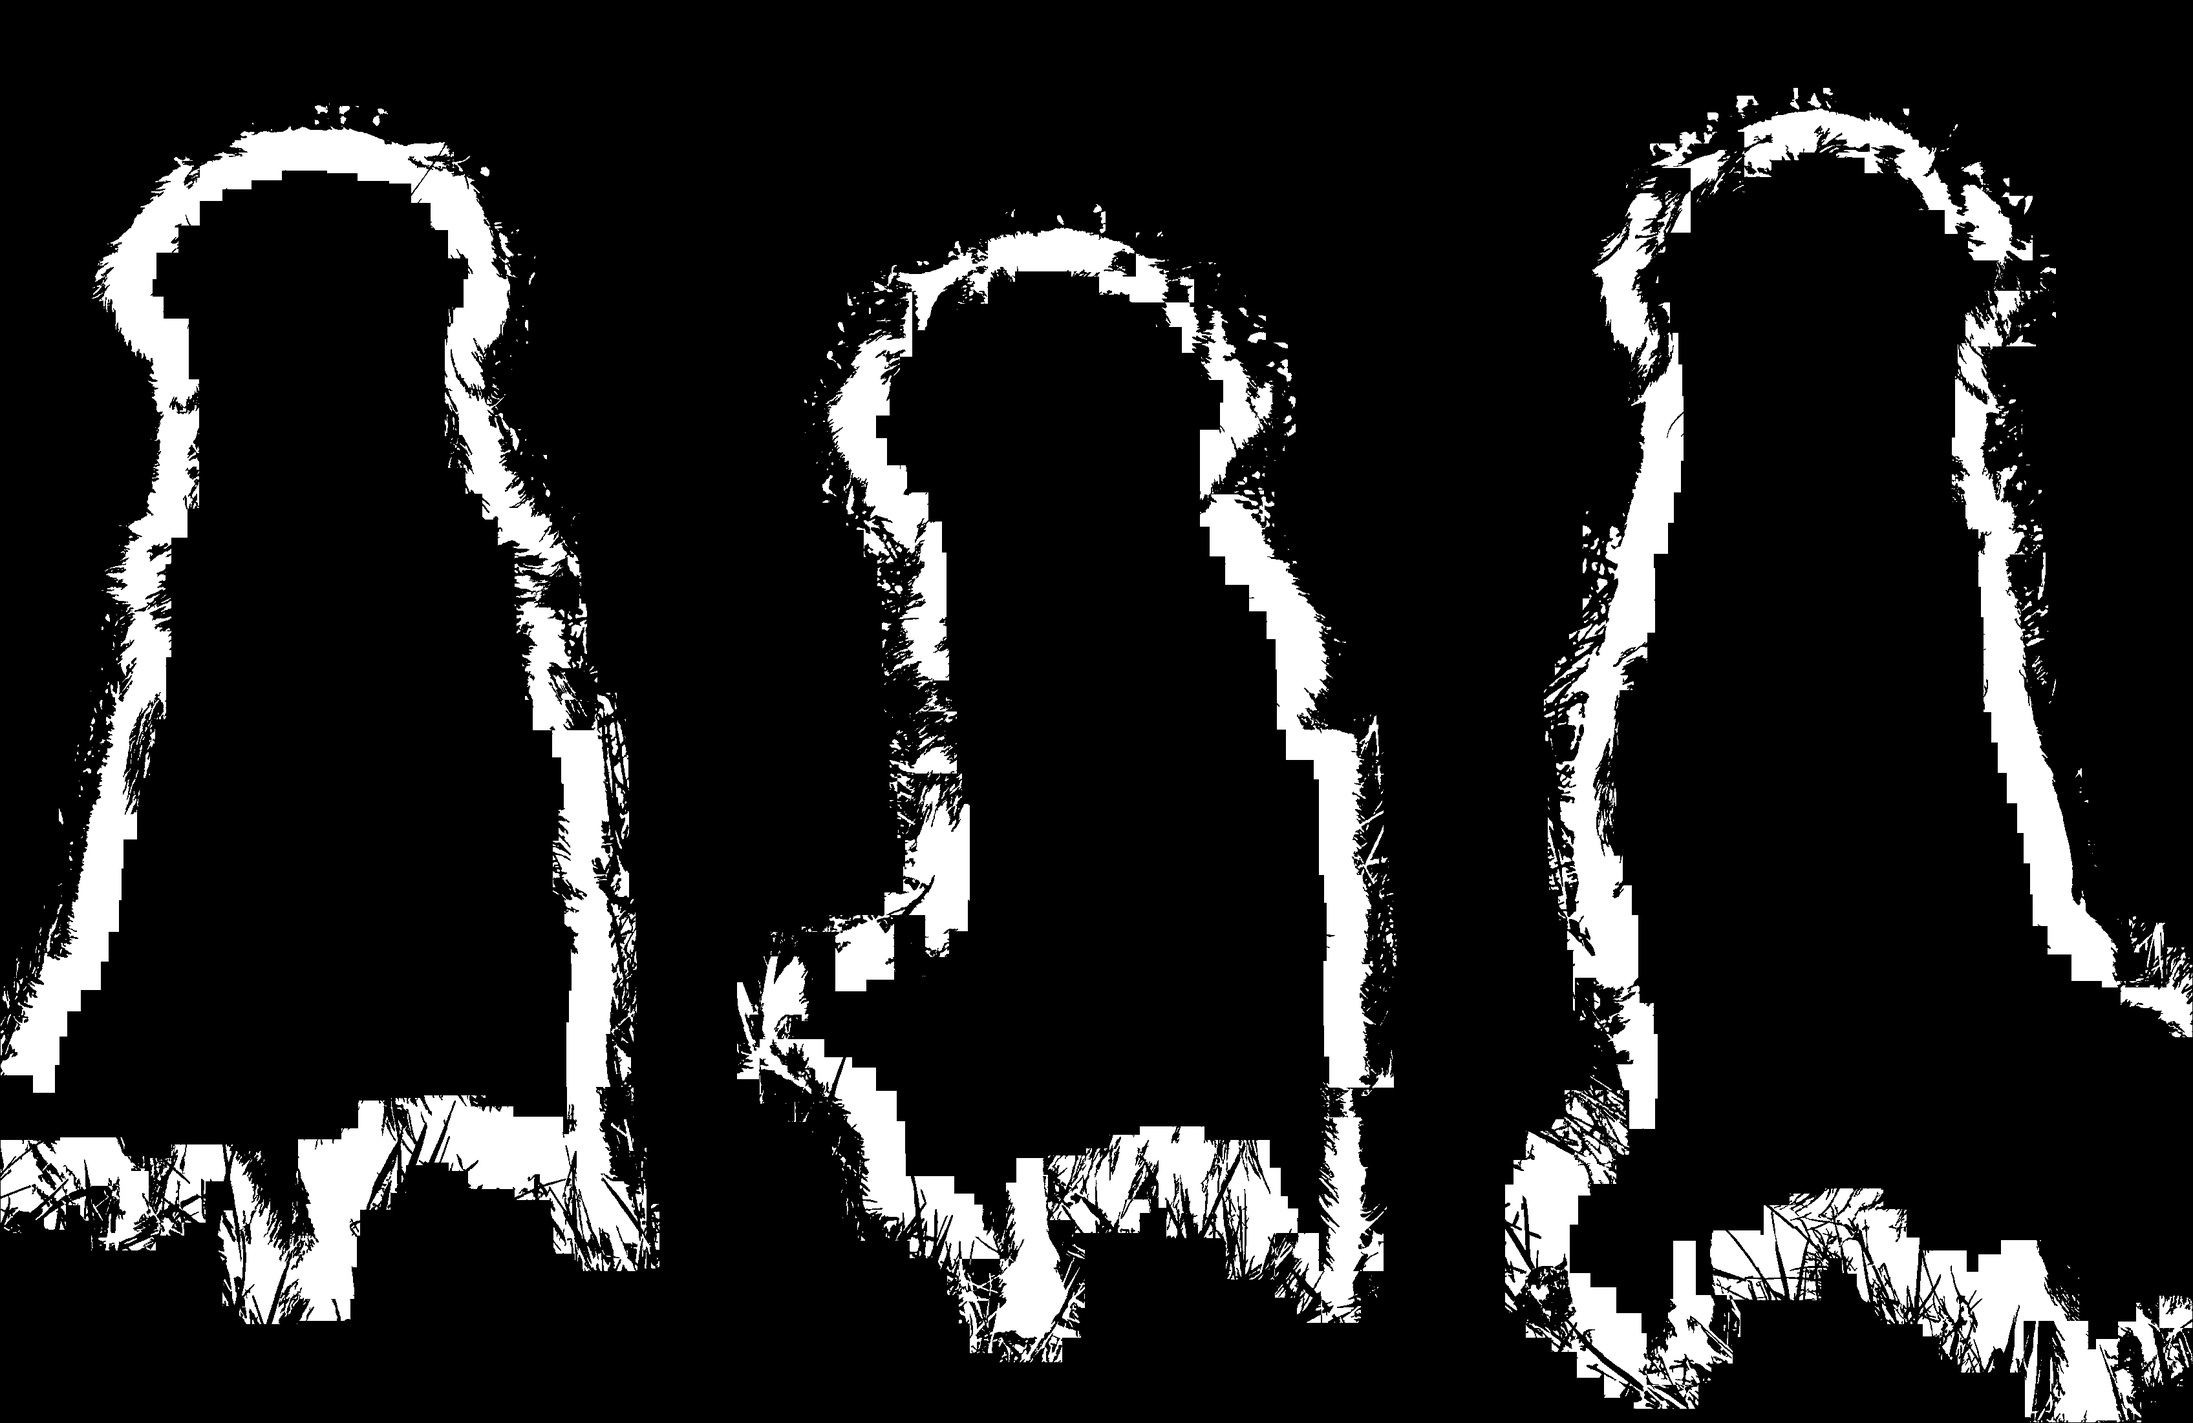
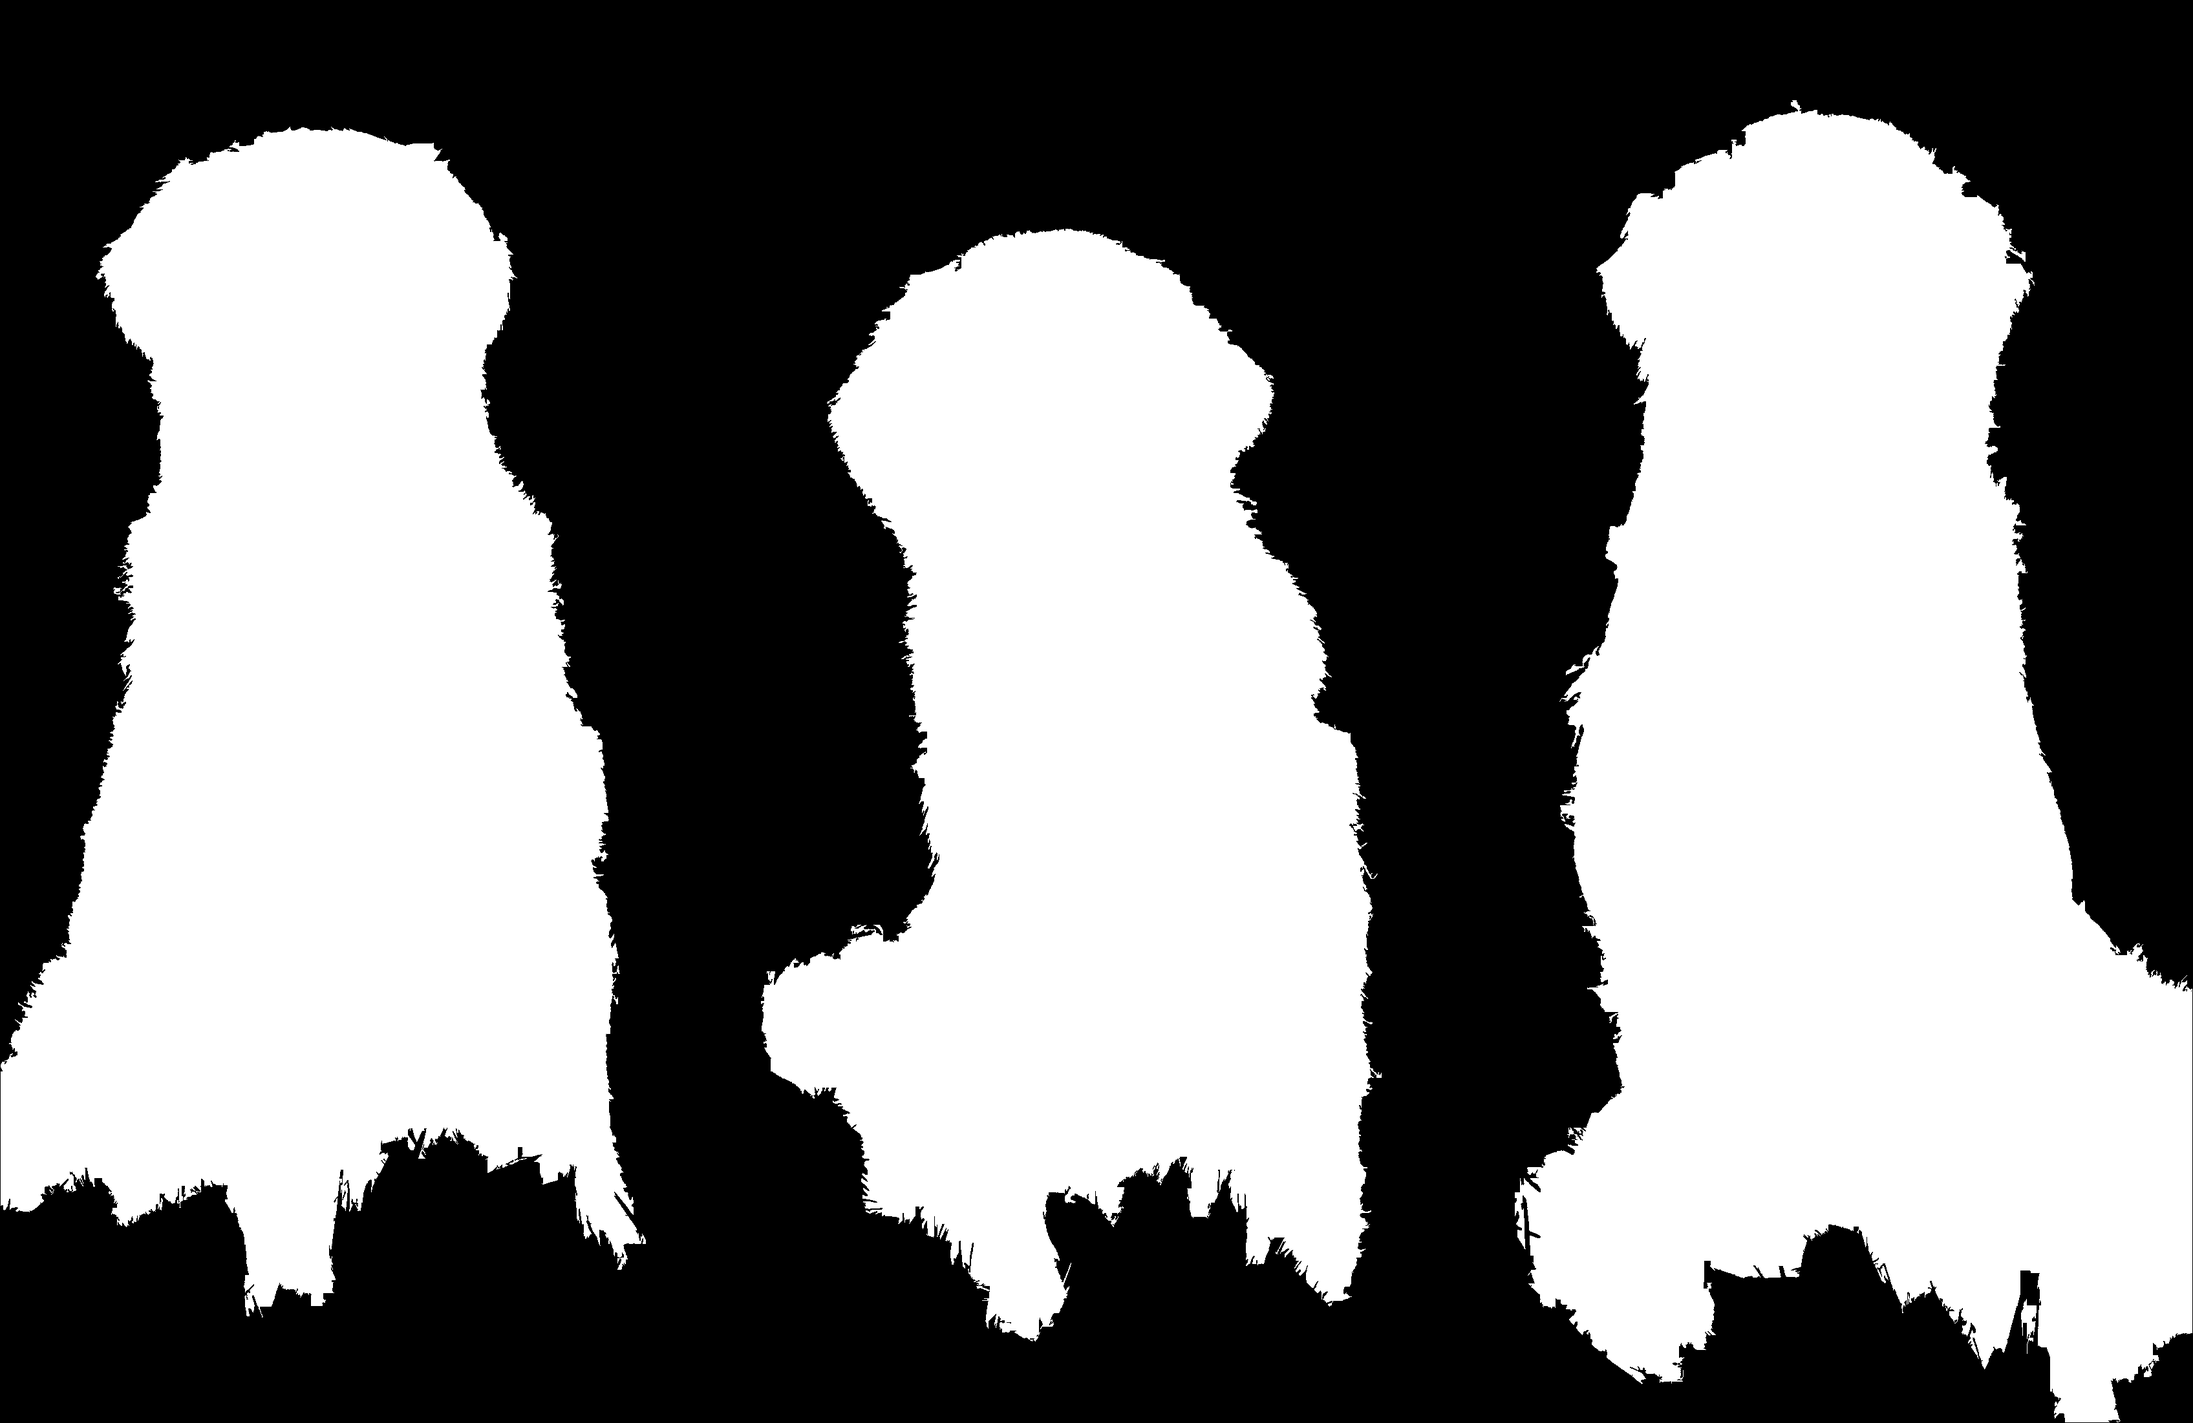
Finish comments

diff --git a/run.py b/run.py
@@ -1,3 +1,5 @@
+# Shihan Ai
+
 import numpy as np
 import cv2 as cv
 import argparse, os, sys
@@ -6,23 +8,38 @@ from util import *
 
 class GraphCut:
     def __init__(self, source, foregroundSeed, backgroundSeed):
+        # Keep a copy of source
         self.source = source.copy()
+
+        # This is where the output is stored
         self.cutOut = source.copy()
+
+        # Store the user marked foreground and background seeds
         self.foregroundSeed = foregroundSeed
         self.backgroundSeed = backgroundSeed
 
+        # Used to create an image pyramid
         self.iDown = [self.source]
         self.fDown = [self.foregroundSeed]
         self.bDown = [self.backgroundSeed]
 
+        # Kernel used for convolution
         self.kernel = np.ones((5,5), np.uint8)
 
+        # Keep a list of contour points for items being cut out
         self.cuts = None
+
+        # Number of objects being cut out
         self.numCuts = None
+
+        # Refined foreground and background
         self.foreground = None
         self.background = None
+
+        # Store the results of each thread
         self.results = [None, None, None, None]
 
+        # Images stored for debugging purposes
         self._combined = None
         self._initialMask = None
         self._finalMask = np.zeros(self.source.shape[:2], dtype=np.uint8)
@@ -32,22 +49,33 @@ class GraphCut:
         self.minImageSize = 500000
         self.timesDownsampled = 0
 
-        self.erodeIterations = 8
-        self.dilateIterations = 8
-        self.patchRadius = 50
+        # Hyper parameters to play with
+        self.erodeIterations = 5
+        self.dilateIterations = 5
+        self.patchRadius = 25
+        self.colorWeight = 0.5
+        self.locationWeight = 0.5
+        self.contourSizeThreshold = 500
 
     def run(self):
+        # We down sample the large image to a much more managable size
+        # and we perform Grabcut on the downsampled image to get a rough
+        # esimate of the cutout mask. Using this estimate, we can obtain a more
+        # refined foreground and background seed.
         self.downSample()
         self.cuts, self.foreground, self.background, self._combined = self.getBoundaries()
+
+        # Using the refined foreground and background seeds, we take the estimated
+        # cutout mask and refine the contour by examining patches that lie on the contour
+        # and cut out pixels with respect to the refined foreground and background seeds
         self.refineBoundary(self.cuts)
+
+        # Cut out the original image using the refined mask
         self.cutOut[self._finalMask==0] = 0
         return self.cutOut, self._finalMask, self._combined, self._initialMask
 
-
+    # Constructs an image pyramid by scaling down the image and foreground and background seeds
     def downSample(self):
-        '''
-        Constructs the image pyramid
-        '''
         imageSize = self.numRows * self.numCols
         while imageSize > self.minImageSize:
             image = cv.pyrDown(self.iDown[-1])
@@ -62,21 +90,27 @@ class GraphCut:
             imageSize = image.shape[0] * image.shape[1]
             self.timesDownsampled += 1
 
+    # Get a rough estimate of the cutout mask
     def getBoundaries(self):
-        downSizedImage = self.iDown[-1]
-        downSizedForeground = self.fDown[-1]
-        downSizedBackground = self.bDown[-1]
 
-        mask = self.cut(downSizedImage, downSizedForeground, downSizedBackground)
+        # Perform the cut
+        mask = self.cut(self.iDown[-1], self.fDown[-1], self.bDown[-1])
 
+        # Upsample the mask back to the size of the original image
         for i in xrange(self.timesDownsampled):
             if mask.shape[0] != self.iDown[-1 * (i + 1)].shape[0]:
                 mask = mask[:-1,:]
             if mask.shape[1] != self.iDown[-1 * (i + 1)].shape[1]:
                 mask = mask[:,:-1]
             mask = cv.pyrUp(mask)
+
+        # Store a copy of the upsampled unrefined mask
         self._initialMask = mask.copy()
 
+        # We know pixels inside the contour of the unrefined mask
+        # should be a part of the foreground and that pixels outside of the
+        # contour should be a part of the background so we can generate a better
+        # foreground and background seed by eroded and dilating the unrefined mask
         mask = cv.erode(mask, self.kernel, iterations=self.erodeIterations)
         erodedMask = cv.erode(mask, self.kernel, iterations=self.erodeIterations)
         dilatedMask = cv.dilate(mask, self.kernel, iterations=self.dilateIterations)
@@ -85,6 +119,7 @@ class GraphCut:
         erodedBoundary = cv.findContours(erodedMask, cv.RETR_EXTERNAL, cv.CHAIN_APPROX_NONE)
         dilatedBoundary = cv.findContours(dilatedMask, cv.RETR_EXTERNAL, cv.CHAIN_APPROX_NONE)
 
+        # Create image representations of the new foreground and background seeds
         combined = np.ones(self.source.shape, dtype=np.uint8) * 255
         foreground = np.zeros(self.source.shape[:2], dtype=np.uint8)
         background = np.zeros(self.source.shape[:2], dtype=np.uint8)
@@ -96,14 +131,17 @@ class GraphCut:
             erodedPoints = erodedBoundary[0][-i]
             dilatedPoints = dilatedBoundary[0][-i]
 
-            for p in points: # Red
+            # Red
+            for p in points:
                 combined[p[0][1], p[0][0]] = [0, 0, 255]
 
-            for p in erodedPoints: # Green
+            # Green
+            for p in erodedPoints:
                 foreground[p[0][1], p[0][0]] = 255
                 combined[p[0][1], p[0][0]] = [0, 255, 0]
 
-            for p in dilatedPoints: # Blue
+            # Blue
+            for p in dilatedPoints:
                 background[p[0][1], p[0][0]] = 255
                 combined[p[0][1], p[0][0]] = [255, 0, 0]
 
@@ -111,9 +149,13 @@ class GraphCut:
 
         return cuts, foreground, background, combined
 
-
+    # Refines the contour by examining patches on the contour
     def refineBoundary(self, cuts):
-        jobs = []
+        patches = []
+
+        # For each object that needs to be cut out we look at its contour and
+        # create a tuple like representation of the patch and its corresponding
+        # foreground and background seeds
         for cut in cuts:
             points = cut[0]
 
@@ -123,13 +165,15 @@ class GraphCut:
                 patch = self.source[max(0, row-self.patchRadius):min(self.numRows, row+self.patchRadius),max(0, col-self.patchRadius):min(self.numCols, col+self.patchRadius),:]
                 foregroundPatch = self.foreground[max(0, row-self.patchRadius):min(self.numRows, row+self.patchRadius),max(0, col-self.patchRadius):min(self.numCols, col+self.patchRadius)]
                 backgroundPatch = self.background[max(0, row-self.patchRadius):min(self.numRows, row+self.patchRadius),max(0, col-self.patchRadius):min(self.numCols, col+self.patchRadius)]
-                jobs.append((patch, foregroundPatch, backgroundPatch))
+                patches.append((patch, foregroundPatch, backgroundPatch))
 
-        numTasks = len(jobs) // 4
-        t0 = Thread(target=self.threadCut, args=(0, jobs[:numTasks]))
-        t1 = Thread(target=self.threadCut, args=(1, jobs[numTasks:2*numTasks]))
-        t2 = Thread(target=self.threadCut, args=(2, jobs[2*numTasks:3*numTasks]))
-        t3 = Thread(target=self.threadCut, args=(3, jobs[3*numTasks:]))
+        # To speed up processing, we create four threads to examine and refine
+        # these patches concurrently
+        numTasks = len(patches) // 4
+        t0 = Thread(target=self.threadCut, args=(0, patches[:numTasks]))
+        t1 = Thread(target=self.threadCut, args=(1, patches[numTasks:2*numTasks]))
+        t2 = Thread(target=self.threadCut, args=(2, patches[2*numTasks:3*numTasks]))
+        t3 = Thread(target=self.threadCut, args=(3, patches[3*numTasks:]))
 
         t0.start()
         t1.start()
@@ -141,77 +185,107 @@ class GraphCut:
         t2.join()
         t3.join()
 
+        # Take the result of the refinement process and copy the data onto
+        # the initial mask. This should result in a mask with a sharpened contour edge
         tID = 0
-        jobID = 0
-        ccc = []
+        patchID = 0
         for cut in cuts:
             points = cut[0]
-            contours = np.zeros(self.source.shape[:2], dtype=np.uint8)
-
+            contours = cv.erode(self._initialMask, self.kernel, iterations=10)
             for i in range(self.patchRadius // 2, points.shape[0], self.patchRadius):
-                if tID < 3 and jobID == numTasks:
+                if tID < 3 and patchID == numTasks:
                     tID += 1
-                    jobID = 0
-                result = self.results[tID][jobID]
-                jobID += 1
+                    patchID = 0
+                result = self.results[tID][patchID]
+                patchID += 1
 
                 row = points[i][0][1]
                 col = points[i][0][0]
                 contours[max(0, row-self.patchRadius):min(self.numRows, row+self.patchRadius),max(0, col-self.patchRadius):min(self.numCols, col+self.patchRadius)] = result
-            ccc.append(contours)
-            writeImage("test.png", contours)
+
+            # Draw the result of all cuts onto image
+            # Filter out noise by ignoring contours that are too small
             boundary = cv.findContours(contours, cv.RETR_EXTERNAL, cv.CHAIN_APPROX_NONE)
-            cv.drawContours(self._finalMask, boundary[0], -1, 255, thickness=-1)
-            # contourIndex = np.argmax([len(x) for x in boundary[0]])
-            # cv.drawContours(self._finalMask, boundary[0], contourIndex, 255, thickness=-1)
+            for i in range(len(boundary[0])):
+                if cv.contourArea(boundary[0][i]) > self.contourSizeThreshold:
+                    cv.drawContours(self._finalMask, boundary[0], i, 255, thickness=-1)
 
-
-    def threadCut(self, tID, jobs):
+    # Function called by each thread to process the patches
+    def threadCut(self, tID, patches):
         self.results[tID] = []
-        for job in jobs:
-            patch = job[0]
-            foregroundPatch = job[1]
-            backgroundPatch = job[2]
+        for patch in patches:
+            refinedPatch = self.refine(patch[0], patch[1], patch[2])
+            self.results[tID].append(refinedPatch)
 
-            _mask = self.test(patch, foregroundPatch, backgroundPatch)
-            self.results[tID].append(_mask)
+    # Refines a patch given a foreground and background seed by masking out pixels
+    # based on color of the pixel and location of the pixel
+    def refine(self, patch, foreground, background):
 
-    def test(self, image, foreground, background):
-        mask = np.zeros(image.shape[:2], dtype=np.uint8)
-        f = image.copy()
-        b = image.copy()
-        u = image.copy()
+        # Placeholder for the resulting mask
+        mask = np.zeros(patch.shape[:2], dtype=np.uint8)
+
+        # Placeholder for the foreground pixels in the patch as marked by the foreground seed
+        f = patch.copy()
         f[foreground==0] = 0
+
+        # Placeholder for the background pixels in the patch as marked by the background seed
+        b = patch.copy()
         b[background==0] = 0
 
-        fAverageColor = np.sum(f, axis=(0,1))
-        bAverageColor = np.sum(b, axis=(0,1))
+        # Placeholder for the uncertain pixels in the patch
+        u = patch.copy()
 
+        # Calculate the average color of the foreground and background pixels in the patch
+        fAverageColor = np.sum(f, axis=(0,1))
         if np.count_nonzero(np.sum(f, axis=2)) != 0:
             fAverageColor /= np.count_nonzero(np.sum(f, axis=2))
+
+        bAverageColor = np.sum(b, axis=(0,1))
         if np.count_nonzero(np.sum(b, axis=2)) != 0:
             bAverageColor /= np.count_nonzero(np.sum(b, axis=2))
 
-        tt = np.zeros(image.shape, dtype=np.uint8)
-        tt[:,:] = fAverageColor
-        yy = np.zeros(image.shape, dtype=np.uint8)
-        yy[:,:] = bAverageColor
+        fColor = np.sum(np.abs((u - fAverageColor).astype(np.int64)),axis=2)
+        bColor = np.sum(np.abs((u - bAverageColor).astype(np.int64)),axis=2)
 
-        ff = np.sum(np.abs((u - fAverageColor).astype(np.int64)),axis=2)
-        bb = np.sum(np.abs((u - bAverageColor).astype(np.int64)),axis=2)
+        # Normalize the values
+        fColorNormal = fColor / (fColor + bColor + np.finfo(np.float64).eps)
+        bColorNormal = bColor / (fColor + bColor + np.finfo(np.float64).eps)
 
-        dd = ff - bb
+        # Calculate the center of the cluster of foreground and background pixels
+        fIndices = np.nonzero(f)
+        fAverageLocation = (np.average(fIndices[0]).astype(np.int), np.average(fIndices[1]).astype(np.int))
 
-        closerToForeground = np.array(dd < -10)
+        bIndices = np.nonzero(b)
+        bAverageLocation = (np.average(bIndices[0]).astype(np.int), np.average(bIndices[1]).astype(np.int))
+
+        # Calculate the distance between each pixel and the foreground and background cluster centers
+        uIndices = np.indices(u.shape[:2])
+        fRow = uIndices[0] - fAverageLocation[0]
+        fCol = uIndices[1] - fAverageLocation[1]
+        fDist = np.sqrt(np.square(fRow) + np.square(fCol))
+
+        bRow = uIndices[0] - bAverageLocation[0]
+        bCol = uIndices[1] - bAverageLocation[1]
+        bDist = np.sqrt(np.square(bRow) + np.square(bCol))
+
+        # Normalize the values
+        fDistNormal = fDist / (fDist + bDist + np.finfo(np.float64).eps)
+        bDistNormal = bDist / (fDist + bDist + np.finfo(np.float64).eps)
+
+        # Calculate the cost of pixels being marked either foreground or background
+        fCost = fColorNormal * self.colorWeight + fDistNormal * self.locationWeight
+        bCost = bColorNormal * self.colorWeight + bDistNormal * self.locationWeight
+
+        # Get the indices of the pixels that have a smaller cost when labelled foreground
+        closerToForeground = fCost < bCost
+
+        # Mark those pixels on the mask
         mask[closerToForeground==1] = 255
 
         return mask
 
-
+    # Performs a basic Grabcut on an image given a foreground and background seed
     def cut(self, image, foreground, background):
-        '''
-        Performs a graph cut given the image, foreground mask and background mask
-        '''
         mask = np.ones(image.shape[:2], dtype=np.uint8) * cv.GC_PR_BGD
         mask[background!=255] = cv.GC_BGD
         mask[foreground!=255] = cv.GC_FGD
@@ -226,6 +300,7 @@ class GraphCut:
 
 
 def main(args):
+    # Read images
     source = readSource(args.s)
     foregroundSeed = readMask(args.f)
     backgroundSeed = readMask(args.b)
@@ -234,9 +309,11 @@ def main(args):
     assert foregroundSeed is not None
     assert backgroundSeed is not None
 
+    # Run algorithm
     graphCut = GraphCut(source, foregroundSeed, backgroundSeed)
     result, _finalMask, _combined, _initialMask = graphCut.run()
 
+    # Figure out the paths for the debugging images
     splitString = args.o.split('.')
     _finalMaskPath = str(splitString[0]) + '_finalMask.'
     _combinedPath = str(splitString[0]) + '_combined.'
@@ -247,6 +324,7 @@ def main(args):
         _combinedPath += str(splitString[i])
         _initialMaskPath += str(splitString[i])
 
+    # Write the images
     writeImage(args.o, result)
     writeImage(_finalMaskPath, _finalMask)
     writeImage(_combinedPath, _combined)
